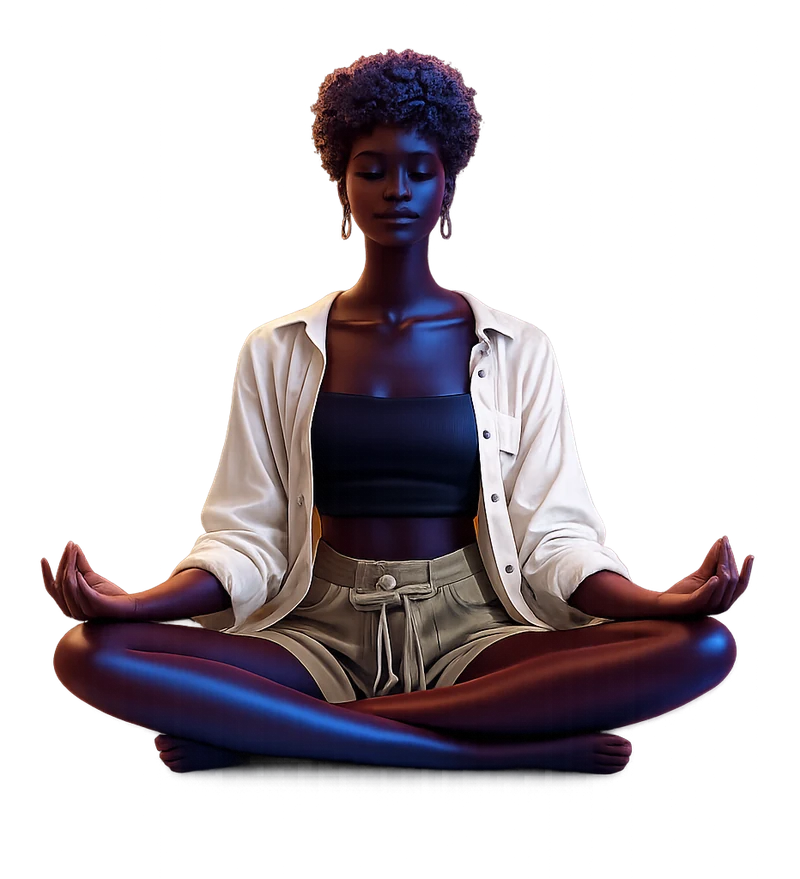
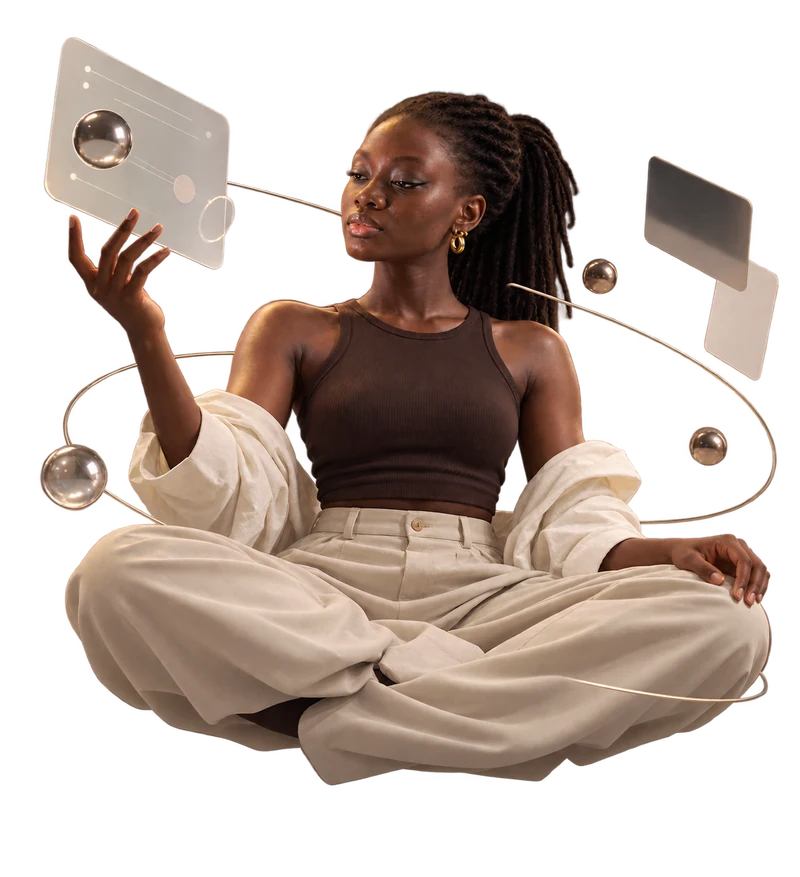
feat: update homepage floating image

diff --git a/src/components/Homepage/Home.js b/src/components/Homepage/Home.js
@@ -83,7 +83,7 @@ const Home = () => {
               src={FloatingTalade}
               alt="Avatar version of me floating"
               width={800}
-              height={879}
+              height={877}
               fetchpriority="high"
               onLoad={() => setImageLoaded(true)}
               onError={() => setImageLoaded(true)}
